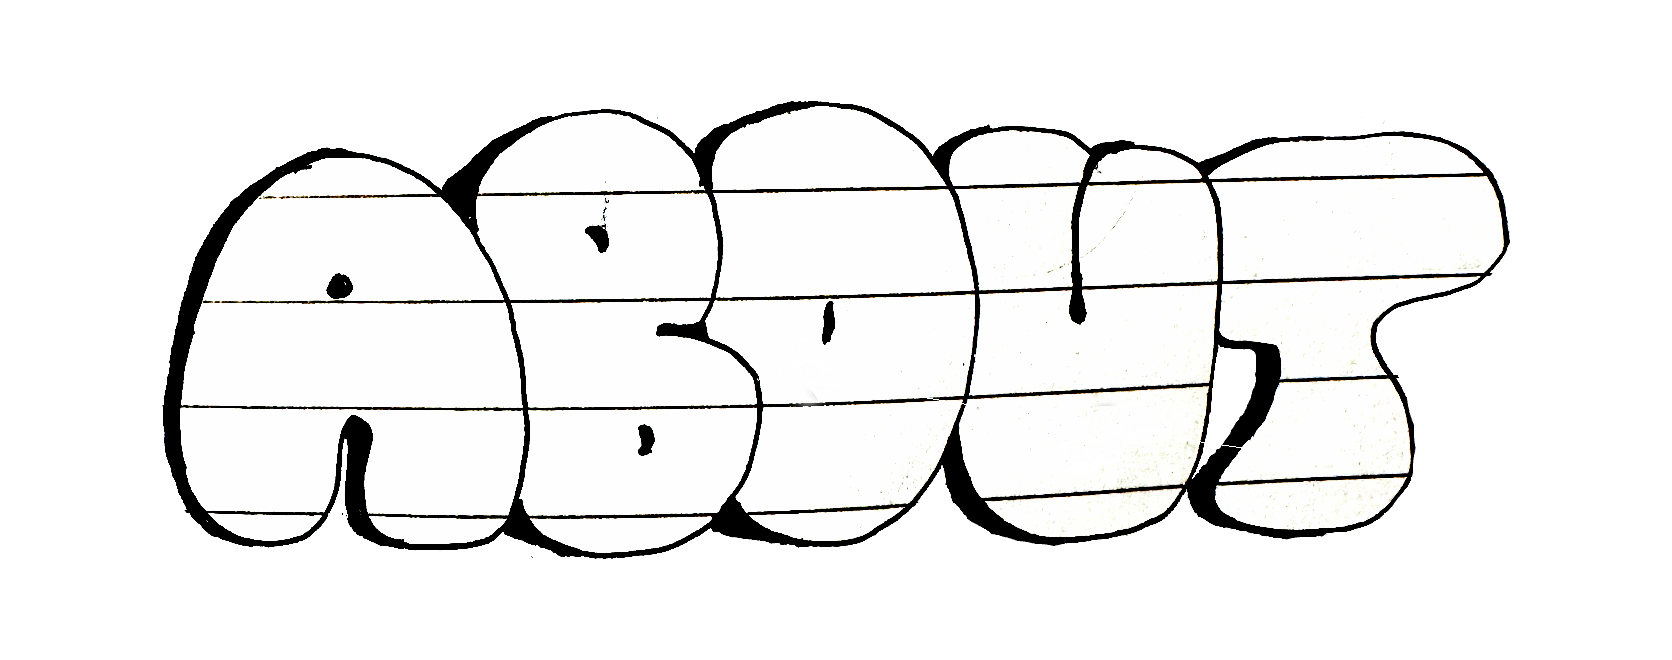
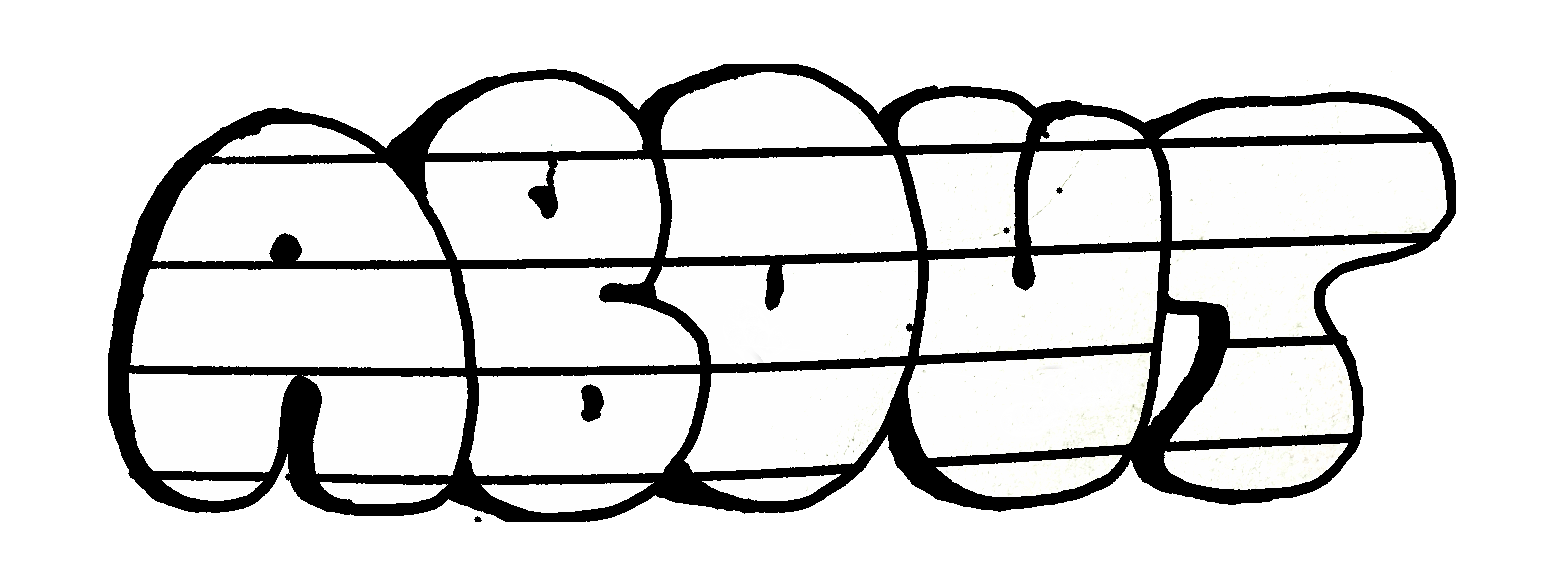
Straighten all photos; bolder, bigger shop/about tabs
- Shop card and home/about photos no longer tilted.
- SHOP/ABOUT drawings re-cut with thicker outlines and less empty
  padding around them, shown at 32px; header side margins trimmed.
  Logo gives up ~5% (185 -> 176px wide on a 375px phone) to fit.
- Drop unused Drawn imports.

Changed region(s): [[0.0614, 0.0922, 0.9514, 0.8908]]

diff --git a/src/styles/global.css b/src/styles/global.css
@@ -65,7 +65,7 @@ body {
   align-items: flex-start;
   gap: 4px;
   min-height: 0;
-  padding: max(6px, env(safe-area-inset-top)) 3% 0;
+  padding: max(6px, env(safe-area-inset-top)) 2% 0;
   position: relative;
   z-index: 2;
   view-transition-name: topbar;
